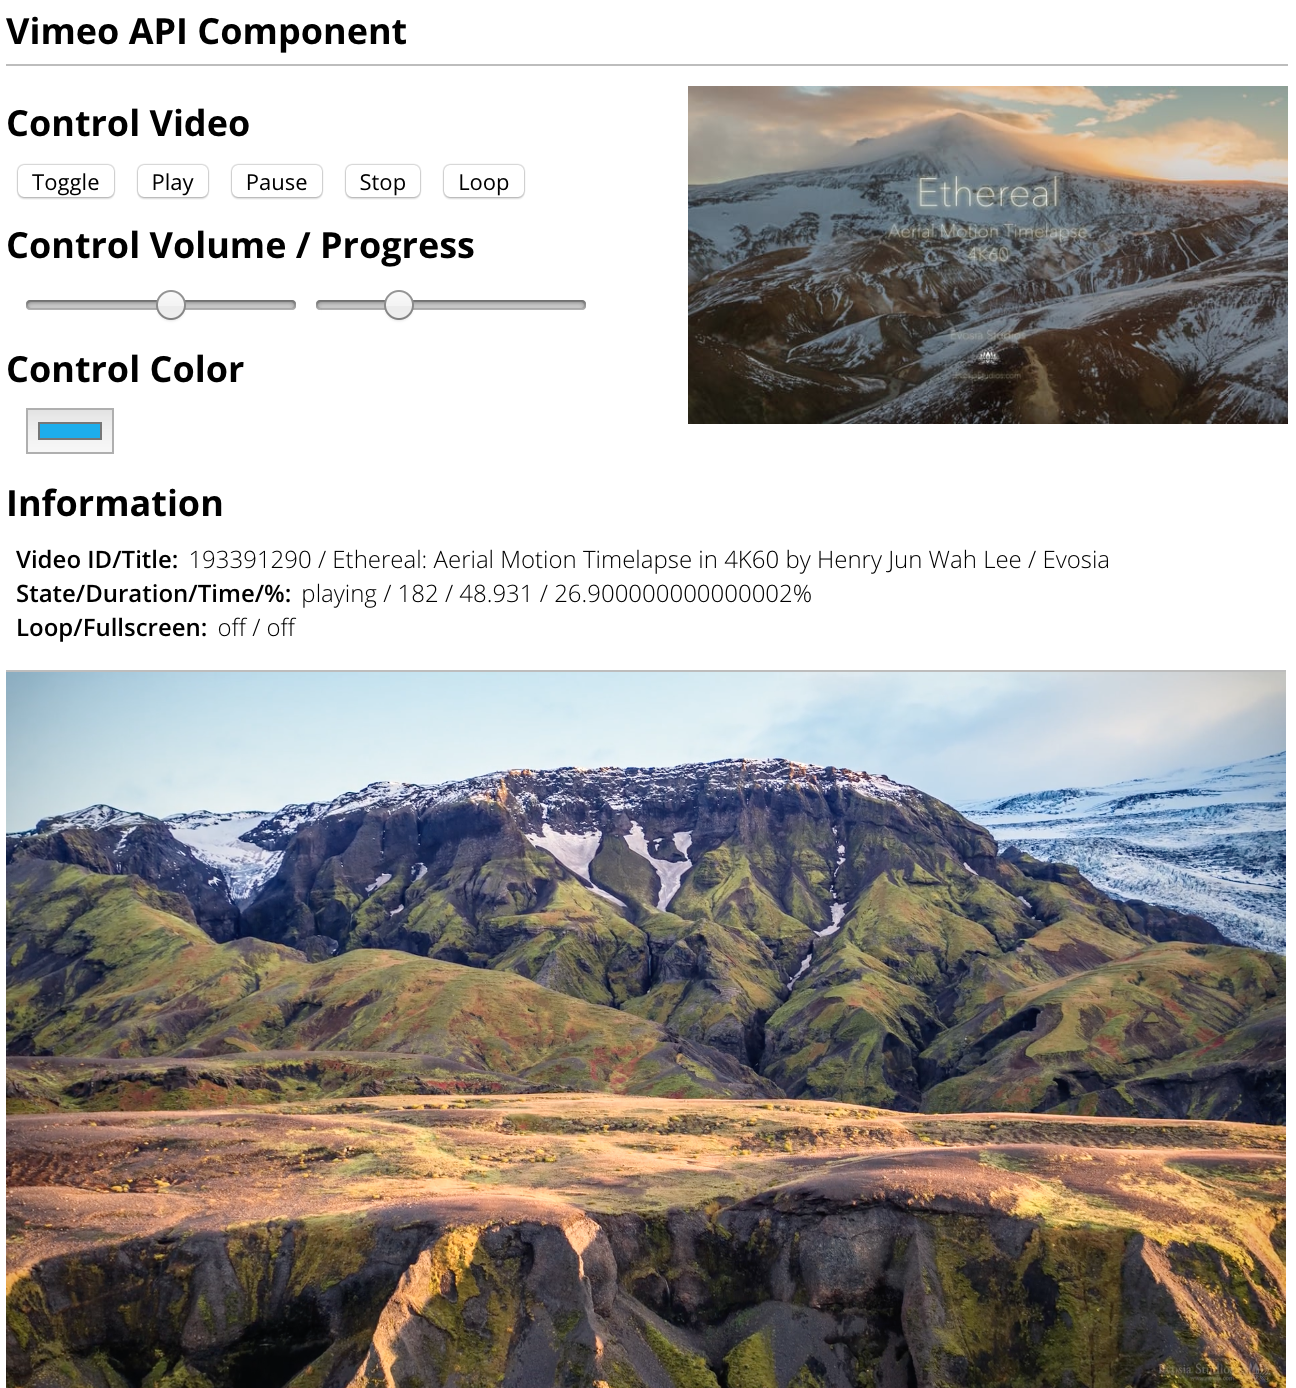
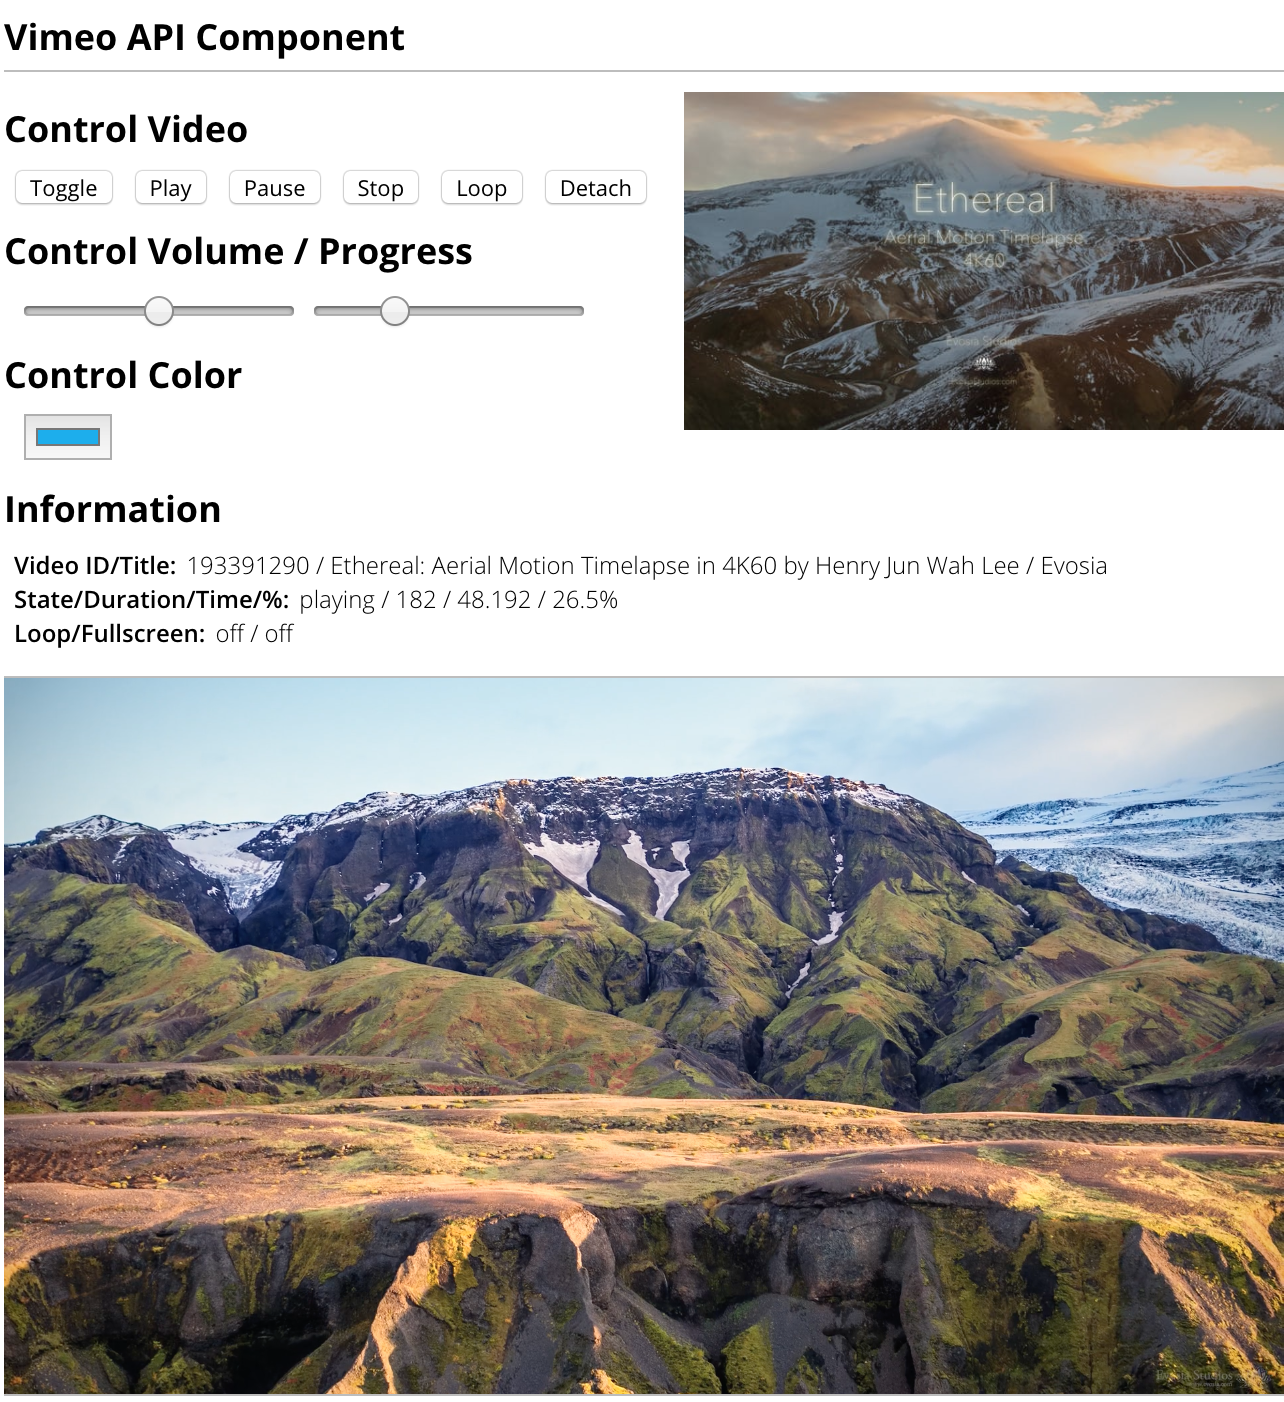
add feature - attach/detach video

diff --git a/examples/app.js b/examples/app.js
@@ -35,9 +35,8 @@ export default class App extends Component {
     super(props);
 
     this.state = {
-      // option
-      videoId : 193391290,
-      autoPlay: true,
+      // video id
+      videoId: 193391290,
 
       // controlable
       volume: 100,
@@ -53,13 +52,18 @@ export default class App extends Component {
       thumbnail: '',
 
       // fullscreen
-      isFullscreen: false,
+      supportFS: false,
 
       // time
       duration: 0,
       seconds : 0,
-      percent : 0
+      percent : 0,
+
+      // detach
+      detachBtnName: 'Detach'
     };
+
+    this.autoPlay = true;
   }
 
   /**
@@ -88,6 +92,8 @@ export default class App extends Component {
                           onClick={::this.handleStopVideo} />
                   <Button title="Loop"
                           onClick={::this.handleLoopVideo} />
+                  <Button title={this.state.detachBtnName}
+                          onClick={::this.handleDetachVideo} />
                 </Act>
 
 
@@ -130,13 +136,13 @@ export default class App extends Component {
               <Text label="State/Duration/Time/%:"
                     text={`${this.state.stateMsg} / ${this.state.duration} / ${this.state.seconds} / ${this.state.percent}%`} />
               <Text label="Loop/Fullscreen:"
-                    text={`${this.state.loop ? 'on' : 'off'} / ${this.state.isFullscreen ? 'on' : 'off'}`} />
+                    text={`${this.state.loop ? 'on' : 'off'} / ${this.state.supportFS ? 'on' : 'off'}`} />
             </Act>
           </div>
 
           <div className="cp-wrap">
             <Vimeo videoId={this.state.videoId}
-                   isFullscreen={this.state.isFullscreen}
+                   supportFS={this.state.supportFS}
                    onLoaded={::this.handleLoaded}
                    onPlay={::this.handlePlay}
                    onPause={::this.handlePause}
@@ -145,6 +151,10 @@ export default class App extends Component {
                    onVolumeChange={::this.handleVolumeChange}
                    onError={::this.handleError} />
           </div>
+
+          <div ref={(el) => this.detachElement = el}
+               id="detach-video"
+               className="is-hidden" />
         </section>
       </div>
     );
@@ -183,6 +193,8 @@ export default class App extends Component {
    * @param {object} evt
    */
   handleToggleVideo(evt) {
+    evt.preventDefault();
+
     if (this.state.currentState === 1) {
       this.pause();
     } else {
@@ -237,6 +249,26 @@ export default class App extends Component {
   }
 
   /**
+   * Handle detach / attach video
+   * @param {object} evt
+   */
+  handleDetachVideo(evt) {
+    evt.preventDefault();
+
+    if (this.iframe.getAttribute('id') === 'detach-video') {
+      this.iframe.removeAttribute('id');
+      this.setState({
+        detachBtnName: 'Detach'
+      });
+    } else {
+      this.iframe.setAttribute('id', 'detach-video');
+      this.setState({
+        detachBtnName: 'Attach'
+      });
+    }
+  }
+
+  /**
    * Handle volume bar
    * @param {string} val
    */
@@ -282,33 +314,16 @@ export default class App extends Component {
    * Handle Loaded
    * @event
    * @param {object} player
-   * @param {string} id
+   * @param {object} iframe
    */
-  handleLoaded(player, id) {
+  handleLoaded(player, iframe) {
     this.player = player;
-    this.play().then(() => {
-      if (!this.state.autoPlay) {
-        this.player.unload();
-      }
-
-      this.player.setColor(this.state.color);
-
-      return this.player.getVideoTitle();
-    }).then((title) => {
-      this.setState({
-        title : title
-      });
-
+    this.iframe = iframe;
+    this.player.setColor(this.state.color).then(() => {
       return this.player.getVolume();
     }).then((volume) => {
       this.setState({
         volume: volume * 100
-      });
-
-      return this.player.getDuration();
-    }).then((duration) => {
-      this.setState({
-        duration: duration
       });
 
       return fetch(`https://vimeo.com/api/oembed.json?url=https%3A//vimeo.com/${this.state.videoId}`);
@@ -316,9 +331,15 @@ export default class App extends Component {
       return res.json();
     }).then((json) => {
       this.setState({
+        title    : json.title,
+        duration : json.duration,
         author   : json.author_name,
         thumbnail: json.thumbnail_url
       });
+
+      if (this.autoPlay) {
+        this.play();
+      }
 
       // console.log(json);
     });

diff --git a/src/Vimeo.js b/src/Vimeo.js
@@ -2,7 +2,6 @@ import React, {
   Component,
   PropTypes
 } from 'react';
-import { extend as _extend } from 'lodash';
 import VimeoPlayer from '@vimeo/player';
 
 const noop = function() {};
@@ -20,29 +19,39 @@ class Vimeo extends Component {
     super(props);
 
     this.state = {
-      videoId     : props.videoId,
-      isFullscreen: props.isFullscreen
+      videoId  : props.videoId,
+      supportFS: props.supportFS
     };
 
     this.player = null;
   }
 
+  /**
+   * componentDidMount
+   */
   componentDidMount() {
-    this.initPlayer();
+    this.player = new VimeoPlayer(this.iframe);
+
+    this.addEvents(this.player);
   }
 
+  /**
+   * componentWillUnmount
+   */
   componentWillUnmount() {
-    this.player.off('loaded');
-    this.player.off('play');
-    this.player.off('pause');
-    this.player.off('ended');
-    this.player.off('progress');
-    this.player.off('timeupdate');
-    this.player.off('seeked');
-    this.player.off('volumechange');
-    this.player.off('error');
+    this.removeEvents(this.player);
   }
 
+  /**
+   * shouldComponentUpdate
+   */
+  shouldComponentUpdate() {
+    return false;
+  }
+
+  /**
+   * render
+   */
   render() {
     return (
       <iframe ref={(el) => this.iframe = el}
@@ -50,11 +59,11 @@ class Vimeo extends Component {
               width={this.props.width}
               height={this.props.height}
               frameBorder="0"
-              allowFullScreen={this.state.isFullscreen} />
+              allowFullScreen={this.state.supportFS} />
     );
   }
 
-  initPlayer() {
+  addEvents(player) {
     const {
       onLoaded,
       onPlay,
@@ -67,20 +76,30 @@ class Vimeo extends Component {
       onError
     } = this.props;
 
-    this.player = new VimeoPlayer(this.iframe);
-
     // event listeners
-    this.player.on('loaded', (res) => {
-      onLoaded(this.player, res.id);
+    player.on('loaded', (res) => {
+      onLoaded(player, this.iframe);
     });
-    this.player.on('play', onPlay);
-    this.player.on('pause', onPause);
-    this.player.on('ended', onEnded);
-    this.player.on('progress', onProgress);
-    this.player.on('seeked', onSeeked);
-    this.player.on('timeupdate', onTimeupdate);
-    this.player.on('volumechange', onVolumeChange);
-    this.player.on('error', onError);
+    player.on('play', onPlay);
+    player.on('pause', onPause);
+    player.on('ended', onEnded);
+    player.on('progress', onProgress);
+    player.on('seeked', onSeeked);
+    player.on('timeupdate', onTimeupdate);
+    player.on('volumechange', onVolumeChange);
+    player.on('error', onError);
+  }
+
+  removeEvents(player) {
+    player.off('loaded');
+    player.off('play');
+    player.off('pause');
+    player.off('ended');
+    player.off('progress');
+    player.off('timeupdate');
+    player.off('seeked');
+    player.off('volumechange');
+    player.off('error');
   }
 }
 

diff --git a/examples/scss/_layout.scss b/examples/scss/_layout.scss
@@ -1,3 +1,12 @@
 #root {
+  width:   660px;
   padding: 10px;
+}
+
+#detach-video {
+  position: fixed;
+  bottom:   10px;
+  right:    10px;
+  width:    240px;
+  height:   135px;
 }
